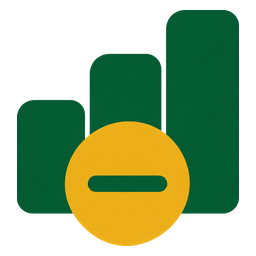
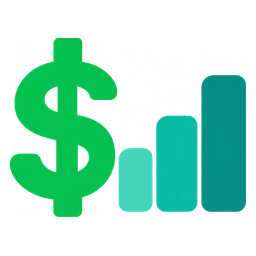
Use a dollar sign and rising chart for the Finance Kit brand

diff --git a/custom_components/kr_finance_kit/frontend/kr-finance-panel.js b/custom_components/kr_finance_kit/frontend/kr-finance-panel.js
@@ -10,7 +10,7 @@
  * open sheet (with inputs the user is typing into) is never clobbered.
  */
 
-const PANEL_VERSION = "0.2.2";
+const PANEL_VERSION = "0.2.3";
 const LS_KEY = "kr_finance_kit.prefs";
 
 const I18N = {
